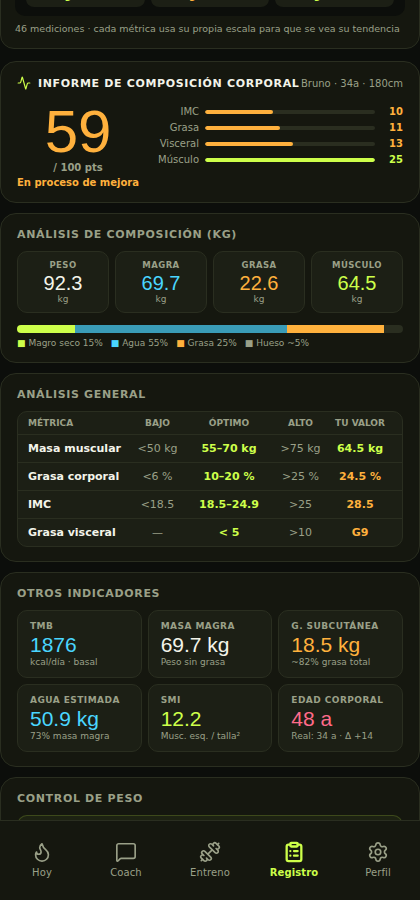
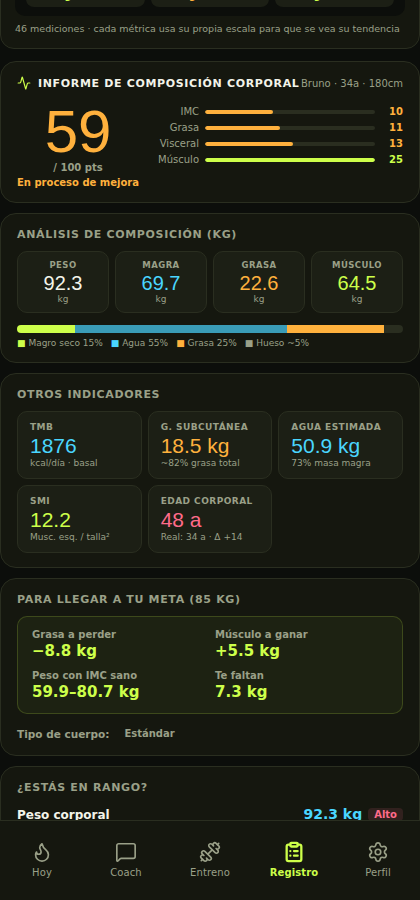
refactor: el informe de composición deja de repetir los mismos datos (W31)
El informe tenía seis bloques donde el músculo aparecía tres veces y el peso,
la grasa, la masa magra y el visceral dos veces cada uno.

Fusionado: "Análisis General" + "Barras de Objetivo" → "¿Estás en rango?"
- Respondían lo mismo (tu valor frente al rango óptimo), uno como tabla y
  otro como barras. Se queda la barra, que además muestra DÓNDE cae el
  valor dentro del rango en vez de solo decir si está alto o bajo
- Cubre peso, masa muscular, grasa corporal (%), IMC y visceral
- El rango ideal de peso se ancla a la meta del perfil en vez de a valores
  fijos: antes decía "ideal 75-88" aunque tu meta fuera otra

Eliminado por duplicado:
- "Tipo de Cuerpo" repetía las clasificaciones (Sobrepeso / Grasa: Aceptable
  / Visceral: Moderado) que ya muestra cada barra junto a su valor. Solo se
  conserva el tipo de cuerpo, que no está en ninguna barra
- "Masa magra" en Otros Indicadores: ya está como tarjeta MAGRA arriba
- "Peso recomendado" en Control de Peso: es la meta que el propio usuario
  fija en su perfil, mostrada además como rango ideal en la barra de peso

"Control de Peso" pasa a "Para llegar a tu meta (85 kg)" y añade cuánto falta,
que era la cifra que de verdad no estaba en ningún sitio.

Cada bloque responde ahora una pregunta distinta: de qué estoy hecho ·
indicadores derivados · qué me falta · estoy en rango.

Verificado con las capturas: cambia solo la escena del informe y las otras 10
quedan intactas. 115 tests en verde en America/Santiago y UTC.
[…]

diff --git a/app.js b/app.js
@@ -1,4 +1,4 @@
-const APP_VERSION = "v2026.06.23-W30";
+const APP_VERSION = "v2026.06.23-W31";
 
 import React, { useState, useEffect, useRef, useMemo } from "react";
 import { createRoot } from "react-dom/client";
@@ -17295,36 +17295,12 @@ Analiza la tendencia de peso y composición corporal, identifica si está progre
               </div>
             </div>
 
-            {/* === BLOQUE 3: Tabla análisis general === */}
-            <div style={{background:C.panel, border:`1px solid ${C.line}`, borderRadius:16, padding:"14px 16px"}}>
-              <div style={{fontSize:11, fontWeight:700, color:C.muted, textTransform:"uppercase", letterSpacing:".06em", marginBottom:10}}>Análisis General</div>
-              <div style={{background:C.panel2, border:`1px solid ${C.line}`, borderRadius:10, overflow:"hidden"}}>
-                <div style={{display:"grid", gridTemplateColumns:"1fr 55px 88px 55px 64px", padding:"6px 10px", borderBottom:`1px solid ${C.line}`, fontSize:9, fontWeight:700, color:C.muted, textTransform:"uppercase"}}>
-                  <span>Métrica</span><span style={{textAlign:"center"}}>Bajo</span><span style={{textAlign:"center"}}>Óptimo</span><span style={{textAlign:"center"}}>Alto</span><span style={{textAlign:"center"}}>Tu valor</span>
-                </div>
-                {[
-                  {lbl:"Masa muscular",  v:`${M.toFixed(1)} kg`, lo:"<50 kg", op:"55–70 kg",  hi:">75 kg",  col:M>=55&&M<=70?C.lime:M>=50?C.amber:C.rose},
-                  {lbl:"Grasa corporal", v:`${G.toFixed(1)} %`,  lo:"<6 %",   op:"10–20 %",   hi:">25 %",  col:G>=10&&G<=20?C.lime:G<25?C.amber:C.rose},
-                  {lbl:"IMC",            v:bmi.toFixed(1),        lo:"<18.5",  op:"18.5–24.9", hi:">25",    col:bmiLabel[1]},
-                  {lbl:"Grasa visceral", v:`G${V}`,               lo:"—",      op:"< 5",        hi:">10",   col:viscLabel[1]},
-                ].map((row, i, arr) => (
-                  <div key={row.lbl} style={{display:"grid", gridTemplateColumns:"1fr 55px 88px 55px 64px", padding:"7px 10px", borderBottom:i<arr.length-1?`1px solid ${C.line}`:"none", fontSize:11}}>
-                    <span style={{fontWeight:700, color:C.ink}}>{row.lbl}</span>
-                    <span style={{textAlign:"center", color:C.muted}}>{row.lo}</span>
-                    <span style={{textAlign:"center", color:C.lime, fontWeight:700}}>{row.op}</span>
-                    <span style={{textAlign:"center", color:C.muted}}>{row.hi}</span>
-                    <span style={{textAlign:"center", color:row.col, fontWeight:800}}>{row.v}</span>
-                  </div>
-                ))}
-              </div>
-            </div>
-
             {/* === BLOQUE 4: Indicadores derivados === */}
             <div style={{background:C.panel, border:`1px solid ${C.line}`, borderRadius:16, padding:"14px 16px"}}>
               <div style={{fontSize:11, fontWeight:700, color:C.muted, textTransform:"uppercase", letterSpacing:".06em", marginBottom:10}}>Otros Indicadores</div>
               <div style={{display:"grid", gridTemplateColumns:"1fr 1fr 1fr", gap:6}}>
                 {miniCard("TMB", `${bmr}`, "kcal/día · basal", C.cyan)}
-                {miniCard("Masa magra", `${leanKg.toFixed(1)} kg`, "Peso sin grasa")}
+                {/* "Masa magra" ya aparece como tarjeta MAGRA arriba */}
                 {miniCard("G. subcutánea", `${subcutFat.toFixed(1)} kg`, "~82% grasa total", G>25?C.rose:C.amber)}
                 {miniCard("Agua estimada", `${waterEst.toFixed(1)} kg`, "73% masa magra", C.cyan)}
                 {miniCard("SMI", smi.toFixed(1), "Musc. esq. / talla²", smi>=10?C.lime:smi>=8?C.amber:C.rose)}
@@ -17334,14 +17310,14 @@ Analiza la tendencia de peso y composición corporal, identifica si está progre
 
             {/* === BLOQUE 5: Control de peso + Tipo de cuerpo === */}
             <div style={{background:C.panel, border:`1px solid ${C.line}`, borderRadius:16, padding:"14px 16px"}}>
-              <div style={{fontSize:11, fontWeight:700, color:C.muted, textTransform:"uppercase", letterSpacing:".06em", marginBottom:10}}>Control de Peso</div>
+              <div style={{fontSize:11, fontWeight:700, color:C.muted, textTransform:"uppercase", letterSpacing:".06em", marginBottom:10}}>Para llegar a tu meta ({goalW} kg)</div>
               <div style={{background:`rgba(205,255,74,0.05)`, border:`1px solid rgba(205,255,74,0.18)`, borderRadius:10, padding:"12px 14px", marginBottom:12}}>
                 <div style={{display:"grid", gridTemplateColumns:"1fr 1fr", gap:10}}>
                   {[
-                    ["Peso recomendado", `${goalW} kg`],
                     ["Grasa a perder", `−${fatToLose.toFixed(1)} kg`],
                     ["Músculo a ganar", `+${muscToGain.toFixed(1)} kg`],
-                    ["Rango IMC óptimo", `${optWMin}–${optWMax} kg`],
+                    ["Peso con IMC sano", `${optWMin}–${optWMax} kg`],
+                    ["Te faltan", `${Math.abs(lastW - goalW).toFixed(1)} kg`],
                   ].map(([k,v]) => (
                     <div key={k}>
                       <div style={{fontSize:10, color:C.muted, fontWeight:600, marginBottom:2}}>{k}</div>
@@ -17351,24 +17327,31 @@ Analiza la tendencia de peso y composición corporal, identifica si está progre
                 </div>
               </div>
 
-              <div style={{fontSize:11, fontWeight:700, color:C.muted, textTransform:"uppercase", letterSpacing:".06em", marginBottom:8}}>Tipo de Cuerpo</div>
+              {/* "Tipo de Cuerpo" repetía las mismas clasificaciones que ya
+                  muestran, con su valor al lado, las barras de "¿Estás en
+                  rango?". Solo se conserva el tipo de cuerpo, que no está
+                  representado en ninguna barra. */}
               <div style={{display:"flex", gap:6, flexWrap:"wrap", alignItems:"center"}}>
+                <span style={{fontSize:10.5, color:C.muted, fontWeight:600}}>Tipo de cuerpo:</span>
                 {chip(bodyTypeInfo[0], bodyTypeInfo[1])}
-                {chip(bmiLabel[0], bmiLabel[1])}
-                {chip(`Grasa: ${fatLabel[0]}`, fatLabel[1])}
-                {chip(`Visceral: ${viscLabel[0]}`, viscLabel[1])}
               </div>
             </div>
 
-            {/* === BLOQUE 6: Barras objetivo + visceral === */}
+            {/* === BLOQUE 6: ¿Estás en rango? ===
+                Fusiona la antigua tabla "Análisis General" con las "Barras de
+                Objetivo": las dos respondían lo mismo (tu valor frente al rango
+                óptimo), una como tabla y otra como barras. Se queda la barra,
+                que además muestra DÓNDE cae el valor dentro del rango. */}
             <div style={{background:C.panel, border:`1px solid ${C.line}`, borderRadius:16, padding:"14px 16px"}}>
-              <div style={{fontSize:11, fontWeight:700, color:C.muted, textTransform:"uppercase", letterSpacing:".06em", marginBottom:12}}>Barras de Objetivo</div>
-              {renderGoalBar("Peso Corporal", lastW, "kg", 60, 110, 75, 88, C.cyan)}
-              {renderGoalBar("Masa Muscular", M, "kg", 45, 85, 55, 70, C.lime)}
-              {renderGoalBar("Masa Grasa Corporal", fatKg, "kg", 5, 35, 8, 15, C.amber)}
+              <div style={{fontSize:11, fontWeight:700, color:C.muted, textTransform:"uppercase", letterSpacing:".06em", marginBottom:12}}>¿Estás en rango?</div>
+              {/* El rango ideal de peso se ancla a tu meta, no a valores fijos */}
+              {renderGoalBar("Peso corporal", lastW, "kg", Math.min(55, goalW - 25), Math.max(115, goalW + 25), goalW - 3, goalW + 5, C.cyan)}
+              {renderGoalBar("Masa muscular", M, "kg", 45, 85, 55, 70, C.lime)}
+              {renderGoalBar("Grasa corporal", G, "%", 4, 40, 10, 20, G > 25 ? C.rose : C.amber)}
+              {renderGoalBar("IMC", bmi, "", 15, 40, 18.5, 24.9, bmiLabel[1])}
 
-              <div style={{fontSize:11, color:C.muted, display:"flex", justifyContent:"space-between", alignItems:"center", marginTop:14}}>
-                <span>Grasa Visceral: <b style={{color:V>=10?C.rose:V>=6?C.amber:C.lime}}>Grado {V}</b></span>
+              <div style={{fontSize:11, color:C.muted, display:"flex", justifyContent:"space-between", alignItems:"center", marginTop:4}}>
+                <span>Grasa visceral: <b style={{color:V>=10?C.rose:V>=6?C.amber:C.lime}}>Grado {V}</b> <span style={{opacity:.7}}>(óptimo &lt; 5)</span></span>
                 <span style={{color:viscLabel[1], fontWeight:700}}>{viscLabel[0]}</span>
               </div>
               <div className="visceral-indicator">
@@ -17377,7 +17360,6 @@ Analiza la tendencia de peso y composición corporal, identifica si está progre
                 ))}
               </div>
             </div>
-
           </div>
         );
       })()}
